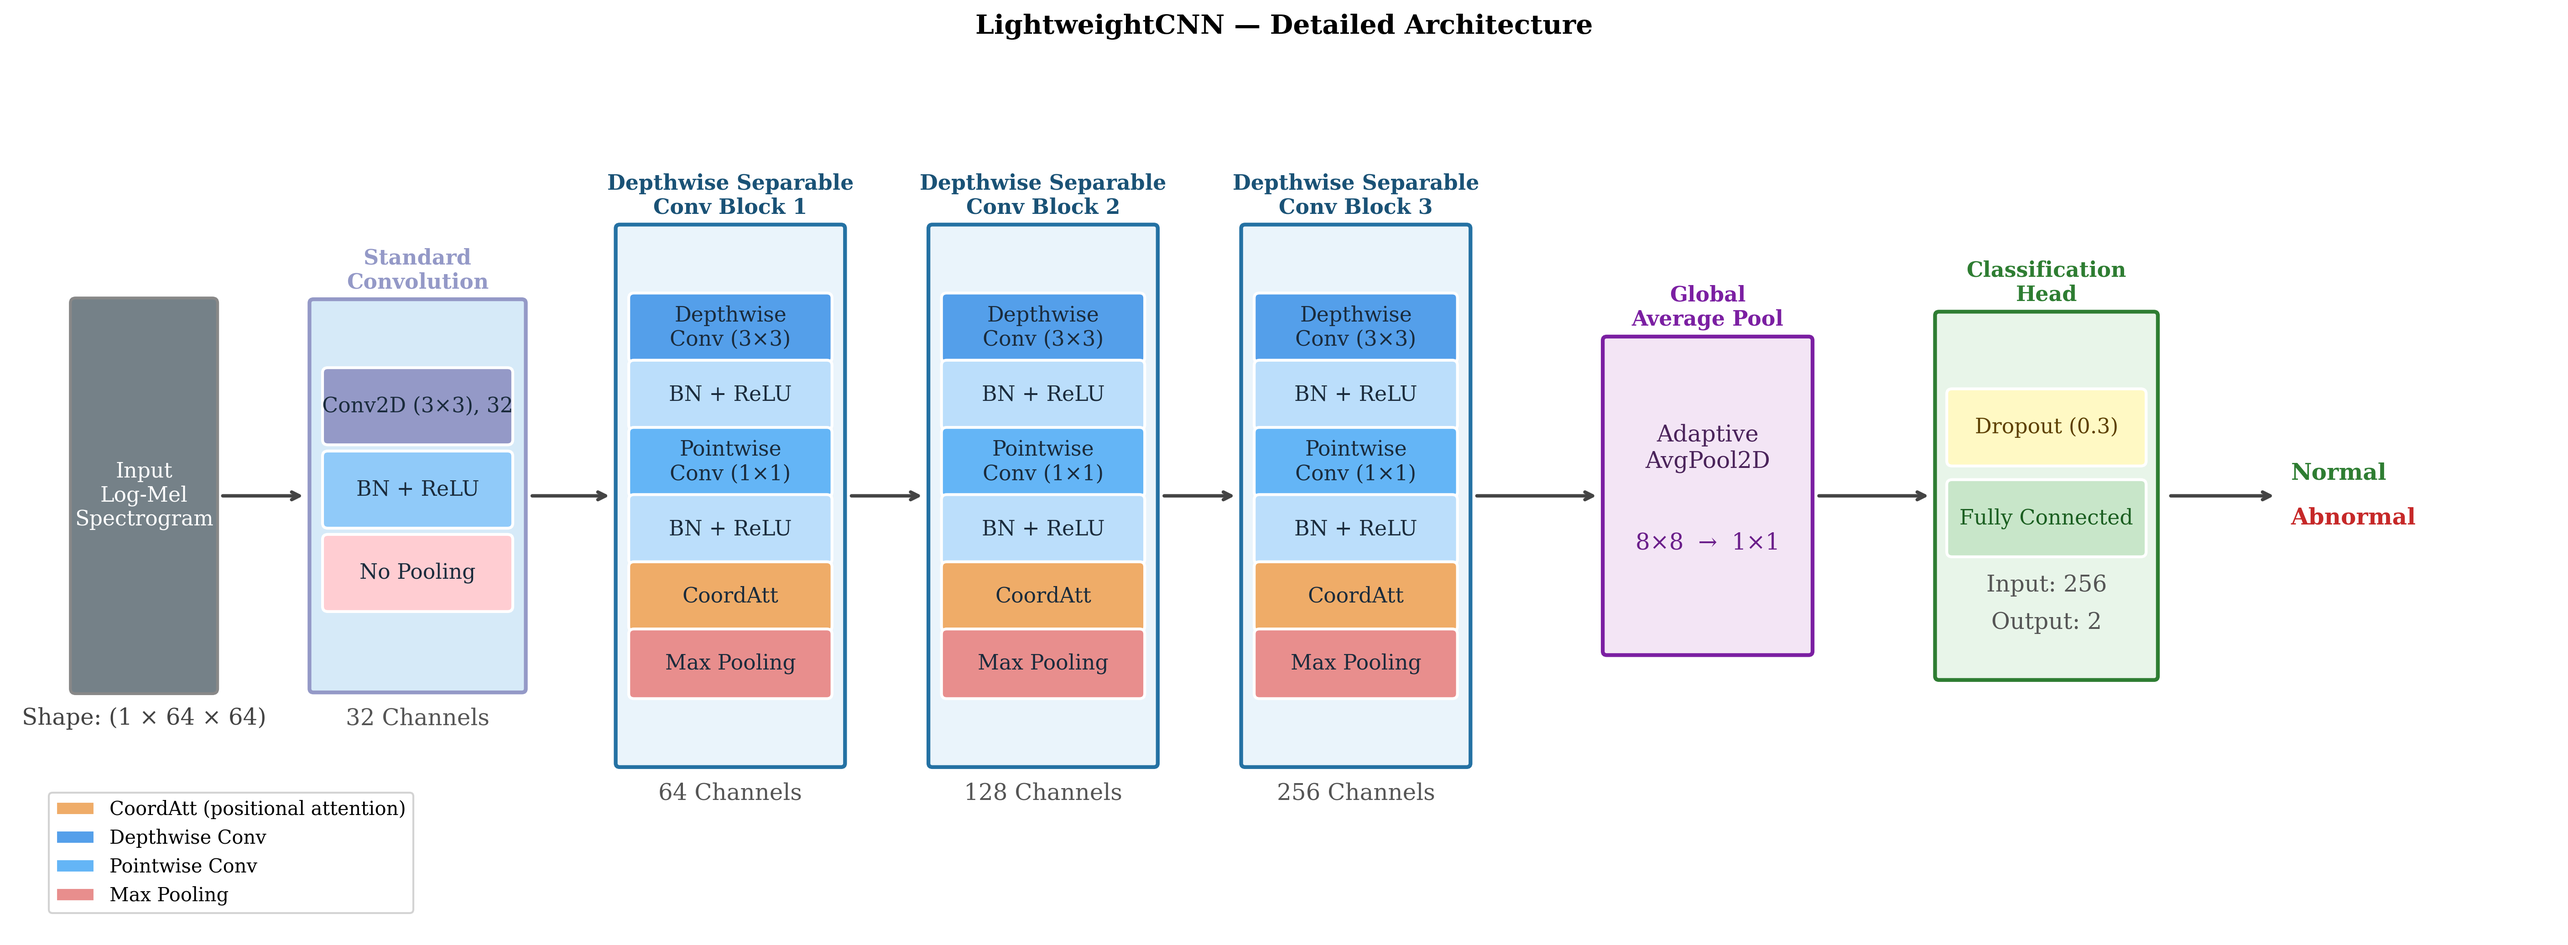
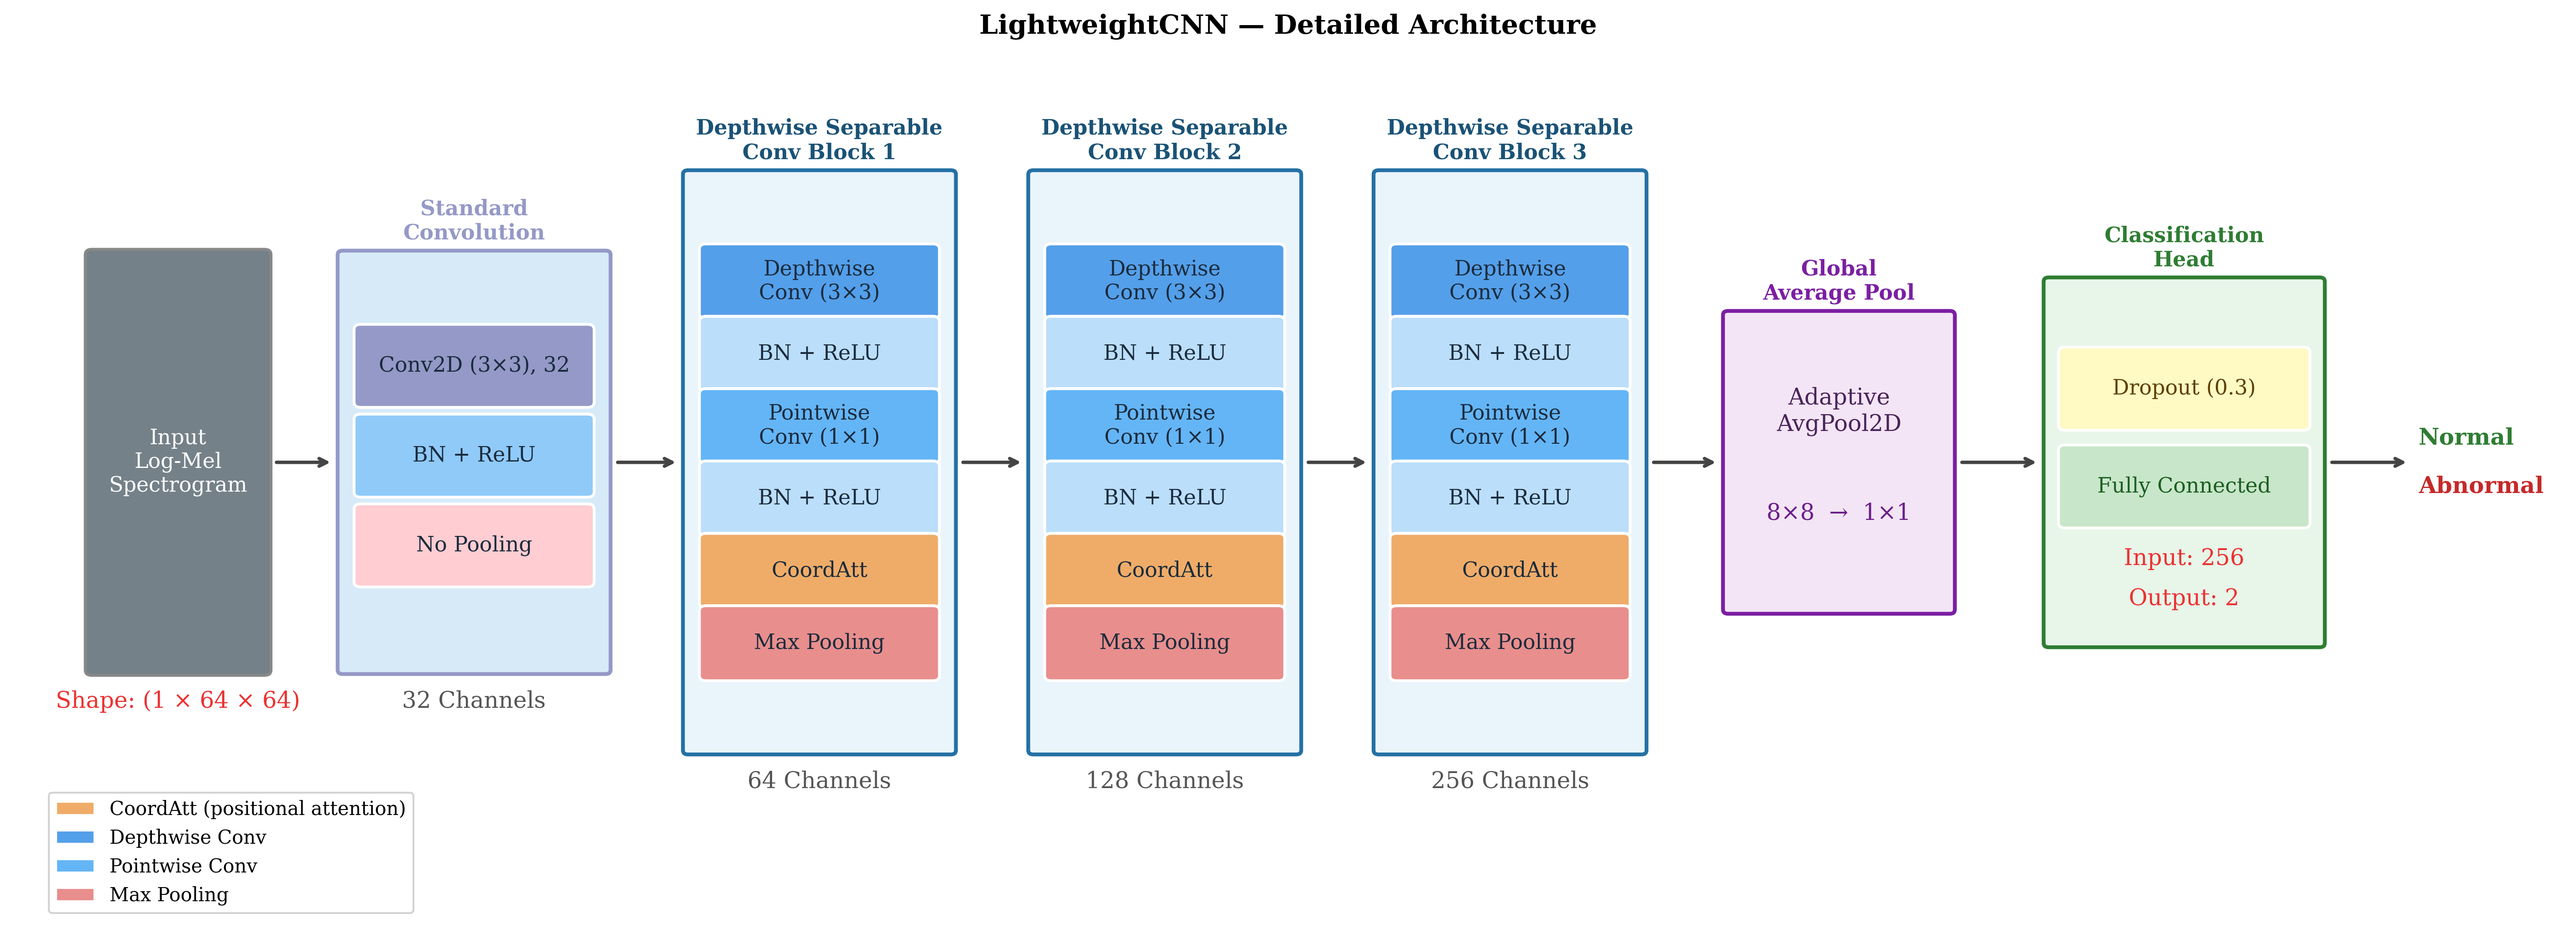
流程图更新

diff --git a/plot_draw/draw_architecture_flat.py b/plot_draw/draw_architecture_flat.py
@@ -11,8 +11,8 @@ from matplotlib.patches import FancyBboxPatch
 plt.rcParams['font.family'] = 'serif'
 
 fig, ax = plt.subplots(figsize=(19, 7))
-ax.set_xlim(0, 19.5)
-ax.set_ylim(0, 7)
+ax.set_xlim(0, 15.5)
+ax.set_ylim(0, 6.5)
 ax.axis('off')
 
 # ── Colour palette (muted, harmonious) ───────────────────────────────────
@@ -60,10 +60,10 @@ IX, IW, IH = 1.0, 1.05, 3.1
 rbox(ax, IX, CY, IW, IH, C_INPUT_BG, ec='#888888', lw=1.5)
 txt(ax, IX, CY, 'Input\nLog-Mel\nSpectrogram', fs=11)
 ax.text(IX, CY - IH/2 - 0.15, 'Shape: (1 × 64 × 64)',
-        ha='center', va='top', fontsize=12, color='#444444')
+        ha='center', va='top', fontsize=12, color="#EC3131")
 
 # ── 1  Standard Convolution block ────────────────────────────────────────
-SX, SW, SH = 3.1, 1.6, 3.1
+SX, SW, SH = 2.8, 1.6, 3.1
 rbox(ax, SX, CY, SW, SH, '#d6eaf8', ec=C_CONV, lw=2, pad=0.03)
 section_header(ax, SX, CY + SH/2 + 0.08, 'Standard\nConvolution', C_CONV)
 
@@ -91,13 +91,13 @@ DSC_ROWS = [
     (C_MAXPOOL,  'Max Pooling',           '#1a2b3c'),
 ]
 
-BW, BH   = 1.7, 4.3
+BW, BH   = 1.6, 4.3
 ROW_H    = 0.48
 ROW_GAP  = 0.06
 N        = len(DSC_ROWS)
 ROWS_TOT = N * ROW_H + (N - 1) * ROW_GAP
 
-DSC_XS    = [5.4, 7.7, 10.0]
+DSC_XS    = [4.9, 7.0, 9.1]
 DSC_CHANS = [64, 128, 256]
 DSC_LABELS = [
     'Depthwise Separable\nConv Block 1',
@@ -123,7 +123,7 @@ arrow(ax, DSC_XS[0] + BW/2 + 0.05, DSC_XS[1] - BW/2 - 0.05)
 arrow(ax, DSC_XS[1] + BW/2 + 0.05, DSC_XS[2] - BW/2 - 0.05)
 
 # ── 5  Global Average Pooling ─────────────────────────────────────────────
-GX, GW, GH = 12.8, 1.55, 2.5
+GX, GW, GH = 11.1, 1.35, 2.2
 rbox(ax, GX, CY, GW, GH, C_GAP_BG, ec=C_GAP_BDR, lw=2, pad=0.03)
 section_header(ax, GX, CY + GH/2 + 0.08, 'Global\nAverage Pool', C_GAP_BDR)
 txt(ax, GX, CY + 0.38, 'Adaptive\nAvgPool2D', fs=12, color='#4a235a')
@@ -132,7 +132,7 @@ txt(ax, GX, CY - 0.38, '8×8  →  1×1', fs=12, color='#6a1e8a')
 arrow(ax, DSC_XS[2] + BW/2 + 0.05, GX - GW/2 - 0.05)
 
 # ── 6  Classification Head ────────────────────────────────────────────────
-CX2, CW2, CH2 = 15.2, 1.65, 2.9
+CX2, CW2, CH2 = 13.2, 1.65, 2.7
 rbox(ax, CX2, CY, CW2, CH2, C_CLS_BG, ec=C_CLS_BDR, lw=2, pad=0.03)
 section_header(ax, CX2, CY + CH2/2 + 0.08, 'Classification\nHead', C_CLS_BDR)
 
@@ -142,17 +142,17 @@ txt(ax, CX2, CY + 0.55, 'Dropout (0.3)', color='#5D4000', fs=11)
 rbox(ax, CX2, CY - 0.18, CW2 - 0.2, 0.54, C_FC, pad=0.04)
 txt(ax, CX2, CY - 0.18, 'Fully Connected', color='#1a5e20', fs=11)
 
-ax.text(CX2, CY - 0.72, 'Input: 256',  ha='center', va='center', fontsize=12, color='#555')
-ax.text(CX2, CY - 1.02, 'Output: 2',   ha='center', va='center', fontsize=12, color='#555')
+ax.text(CX2, CY - 0.72, 'Input: 256',  ha='center', va='center', fontsize=12, color='#EC3131')
+ax.text(CX2, CY - 1.02, 'Output: 2',   ha='center', va='center', fontsize=12, color='#EC3131')
 
 arrow(ax, GX + GW/2 + 0.05, CX2 - CW2/2 - 0.05)
 
 # ── 7  Output label ───────────────────────────────────────────────────────
-OX = CX2 + CW2/2 + 0.1
-arrow(ax, OX, OX + 0.85)
-ax.text(OX + 0.95, CY + 0.18, 'Normal',   ha='left', va='center',
+OX = CX2 + CW2/2 + 0.05
+arrow(ax, OX, OX + 0.5)
+ax.text(OX + 0.55, CY + 0.18, 'Normal',   ha='left', va='center',
         fontsize=12, color='#2E7D32', fontweight='bold')
-ax.text(OX + 0.95, CY - 0.18, 'Abnormal', ha='left', va='center',
+ax.text(OX + 0.55, CY - 0.18, 'Abnormal', ha='left', va='center',
         fontsize=12, color='#C62828', fontweight='bold')
 
 # ── Legend ────────────────────────────────────────────────────────────────
